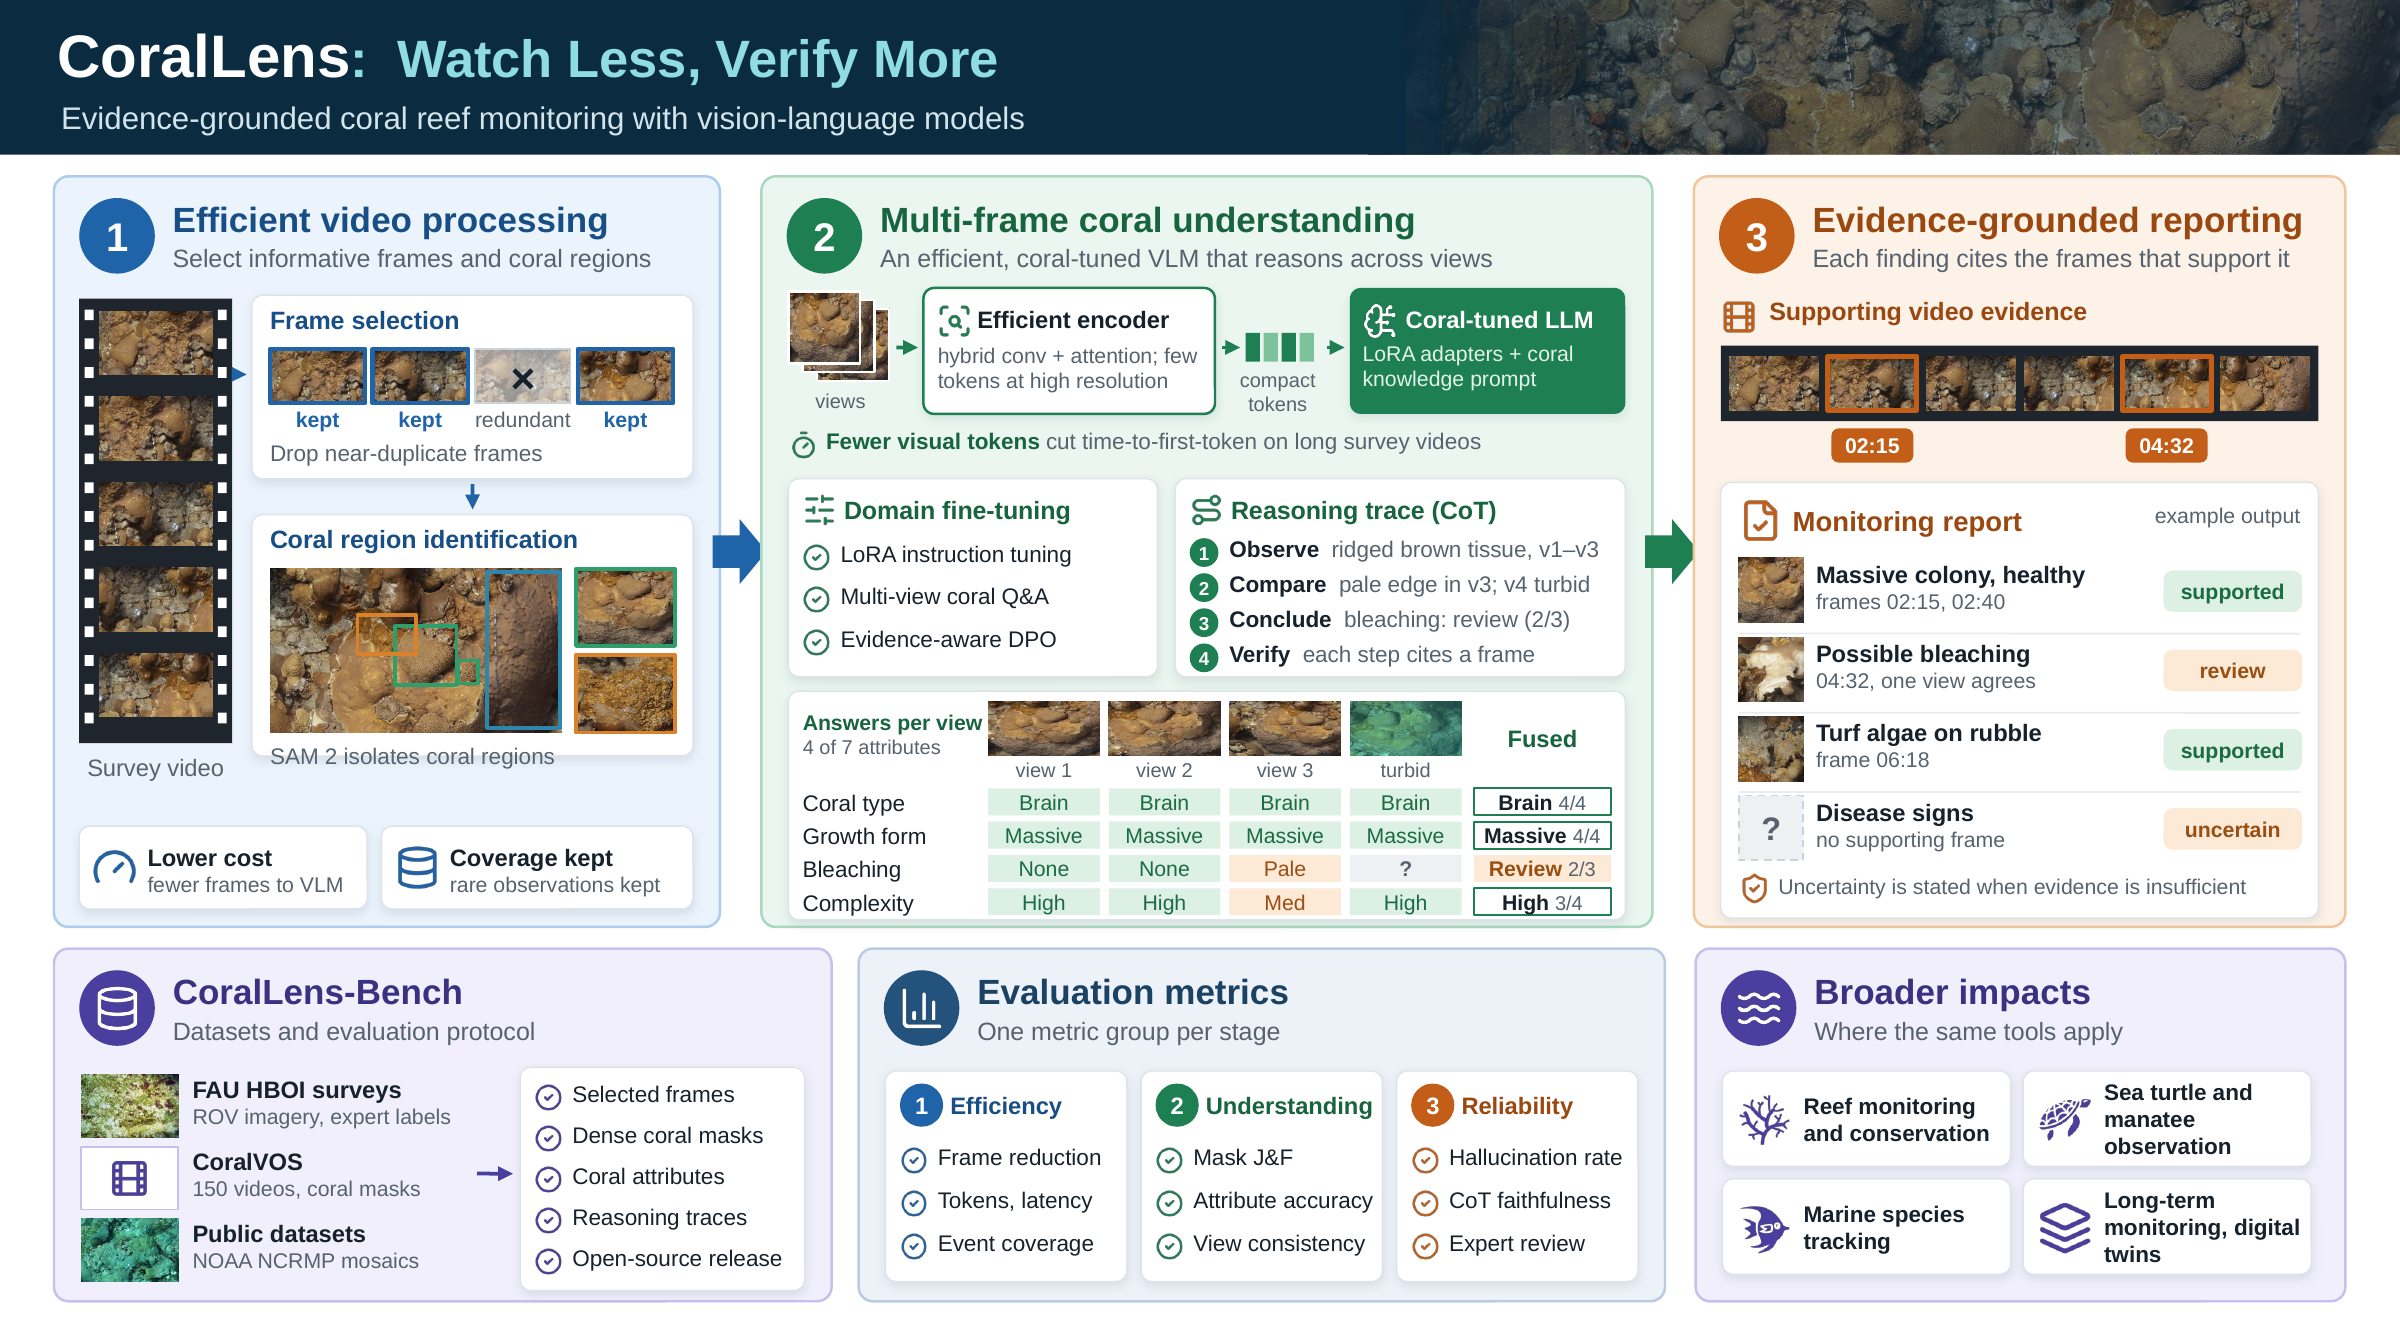
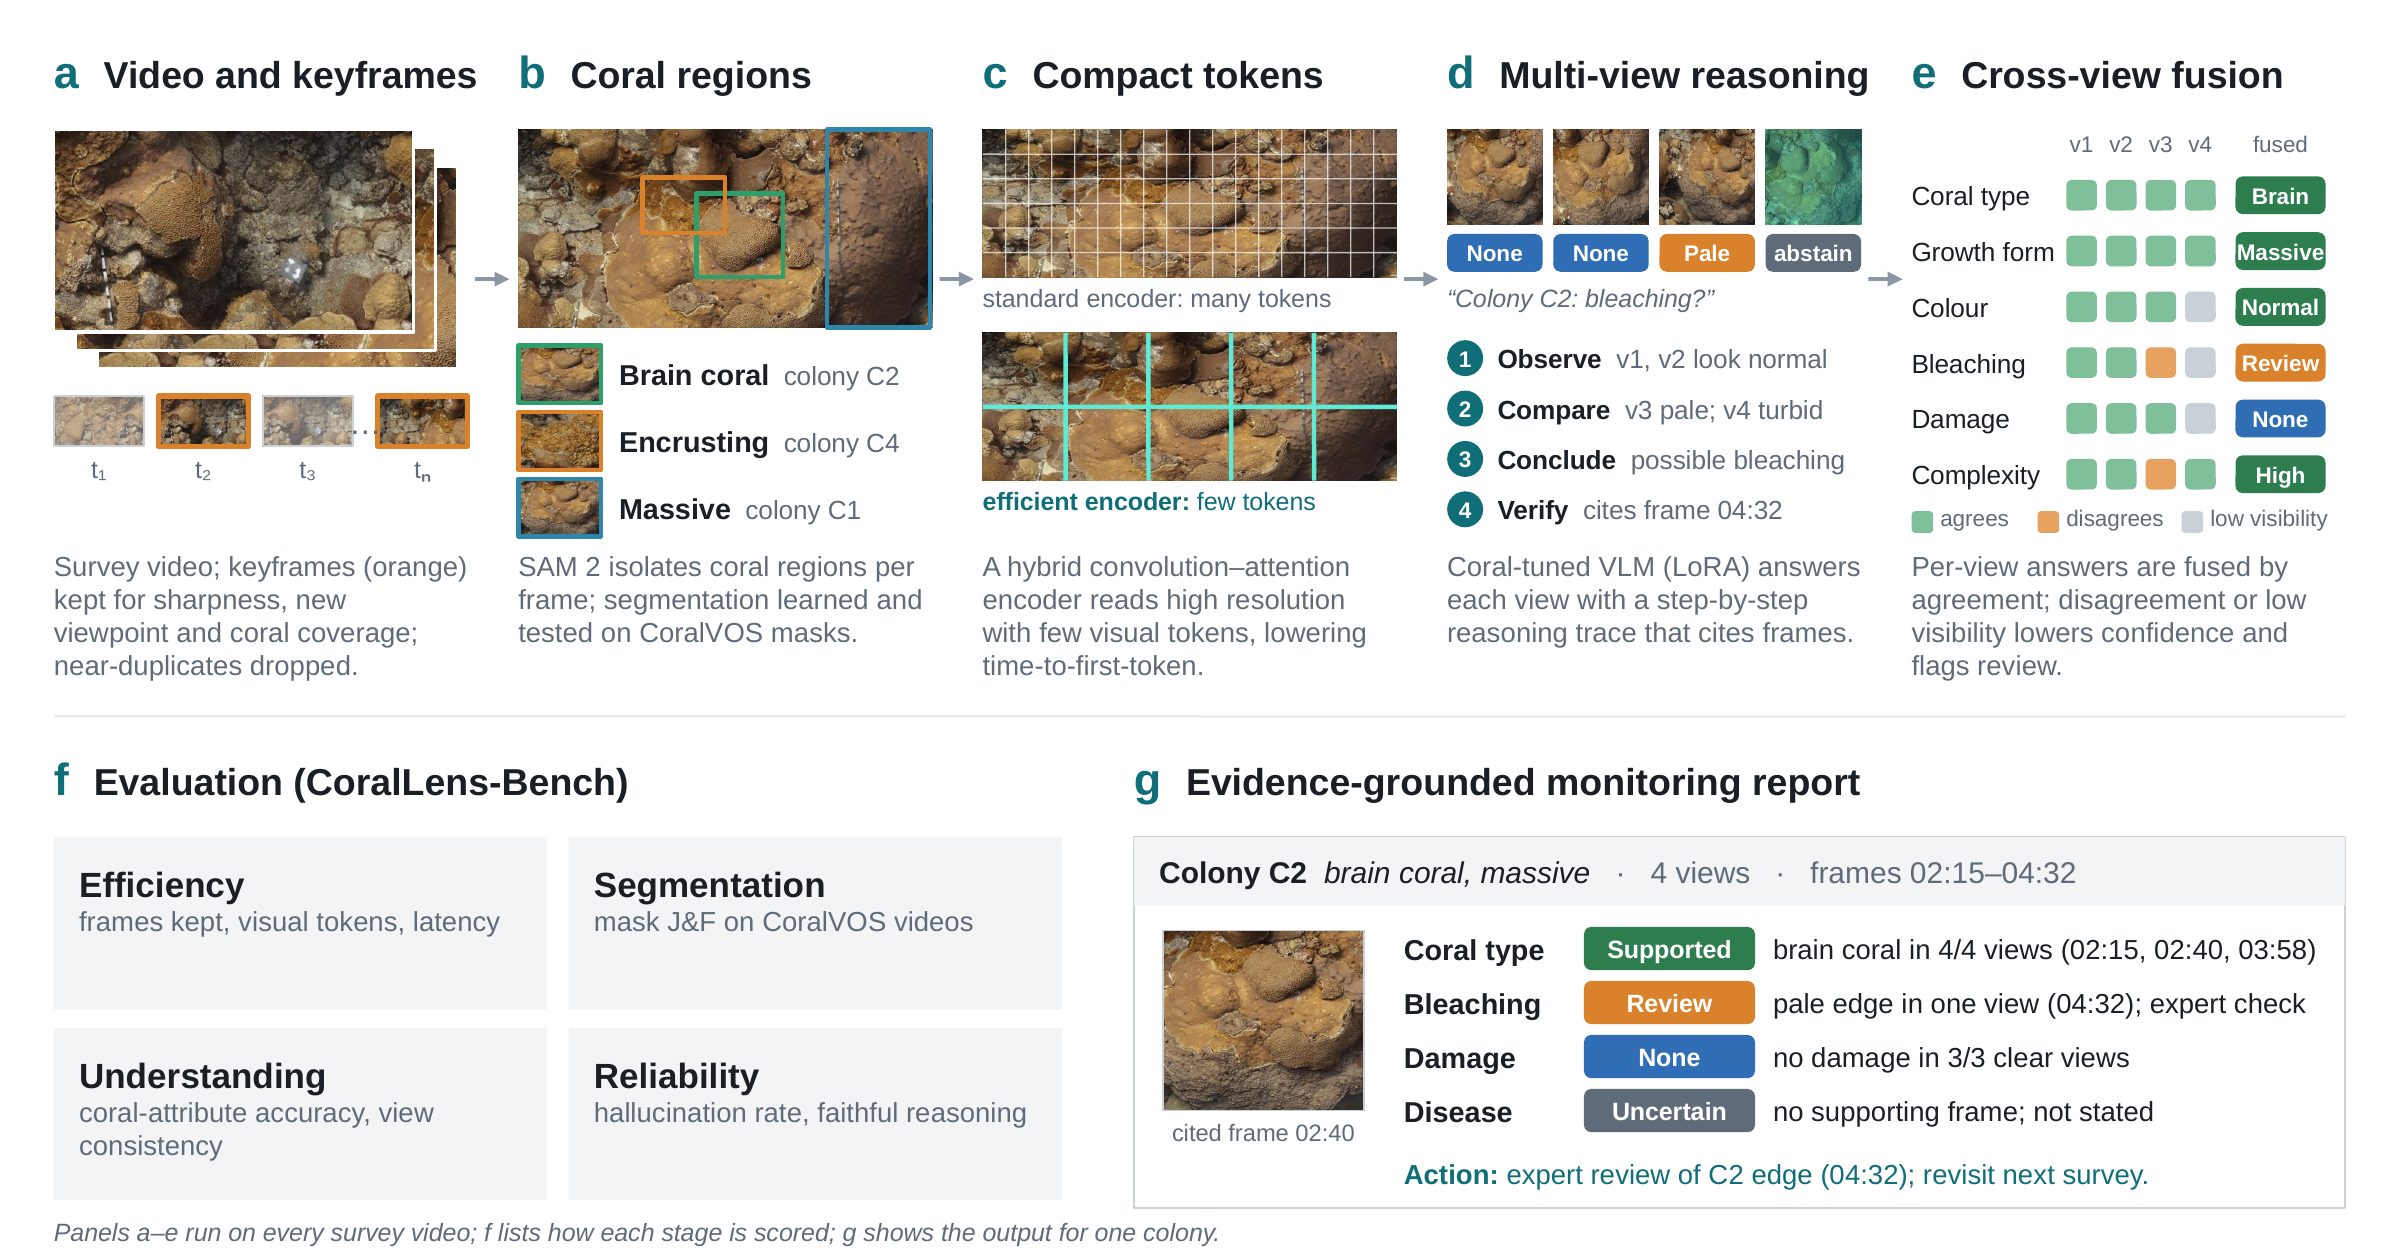
Update pipeline figure to paper style

diff --git a/index.html b/index.html
@@ -326,7 +326,7 @@ footer b{color:var(--ink-2)}
       </div>
     </div>
     <figure class="rv">
-      <div class="fig" style="background:#fff;padding:10px"><img src="assets/fig1-overview.png" alt="CoralLens pipeline: (1) efficient video processing, (2) multi-frame coral understanding, (3) evidence-grounded reporting, with CoralLens-Bench, evaluation metrics, and broader impacts" loading="lazy" data-zoom></div>
+      <div class="fig" style="background:#fff;padding:10px"><img src="assets/fig1-overview.png?v=20261020h" alt="CoralLens pipeline: (a) video and keyframes, (b) SAM 2 coral regions, (c) compact visual tokens, (d) multi-view reasoning, (e) cross-view fusion, (f) CoralLens-Bench evaluation, (g) evidence-grounded monitoring report" loading="lazy" data-zoom></div>
       <figcaption><b>Figure 1. CoralLens pipeline.</b> (1) Sharp, non-redundant keyframes are selected from survey video, and SAM&nbsp;2 isolates coral regions. (2) An efficient vision encoder converts each view into compact visual tokens. A LoRA-tuned coral VLM answers each view with a frame-cited reasoning trace, and answers are fused by cross-view agreement. (3) The monitoring report links every finding to its supporting frames and flags low-agreement findings for review. Model outputs shown are illustrative. <span class="mono" style="font-size:12px">(click to enlarge)</span></figcaption>
     </figure>
     <div class="pipe">
